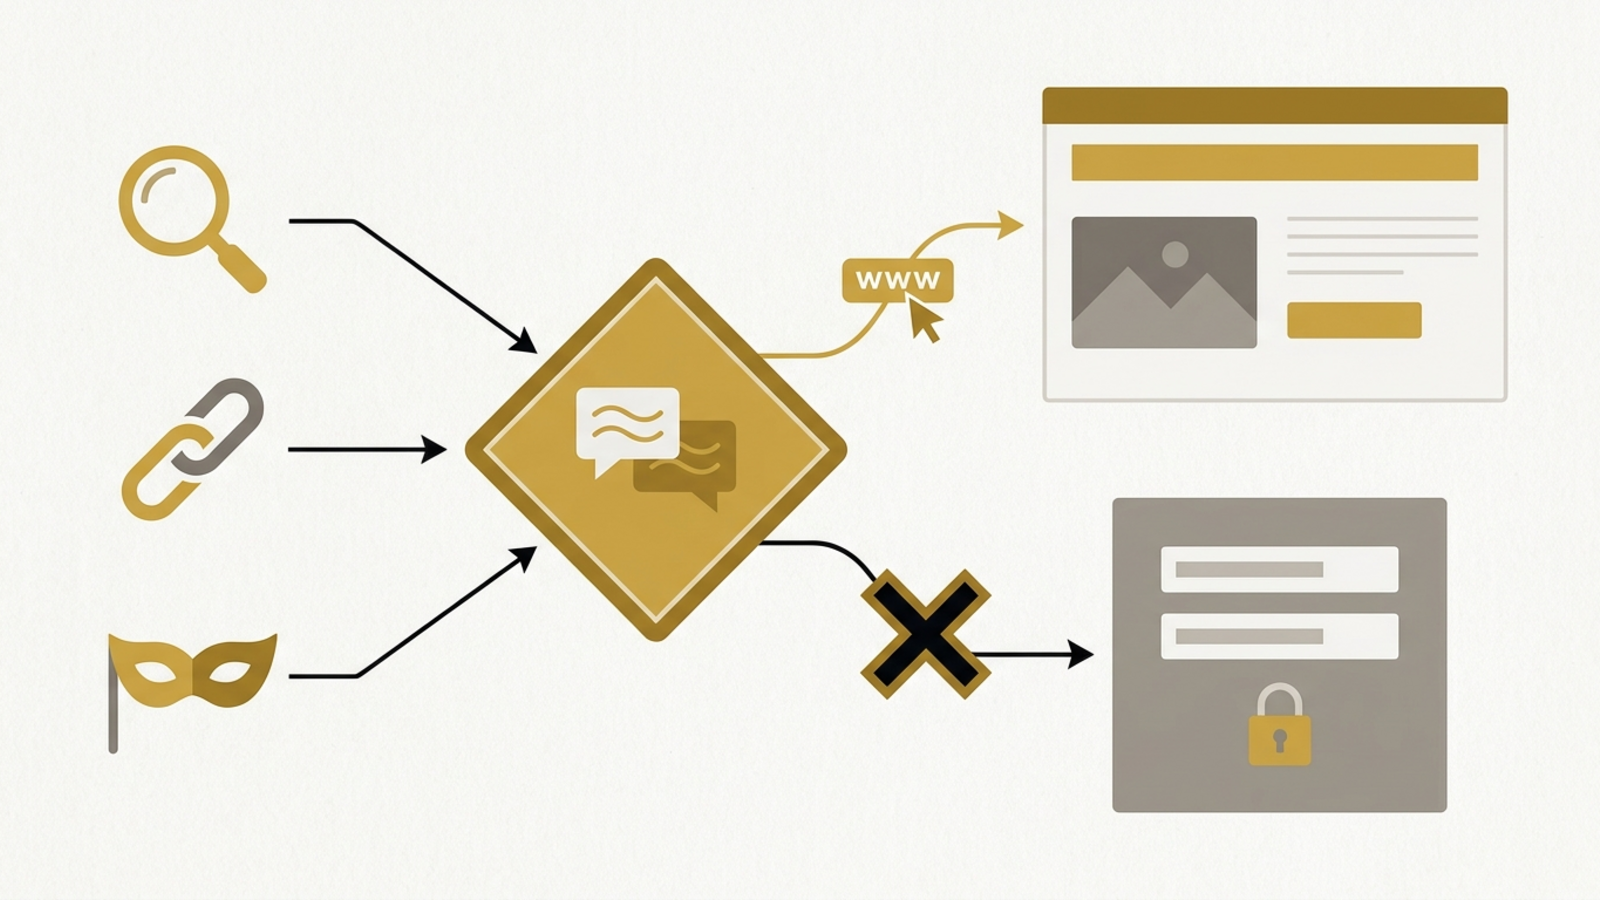
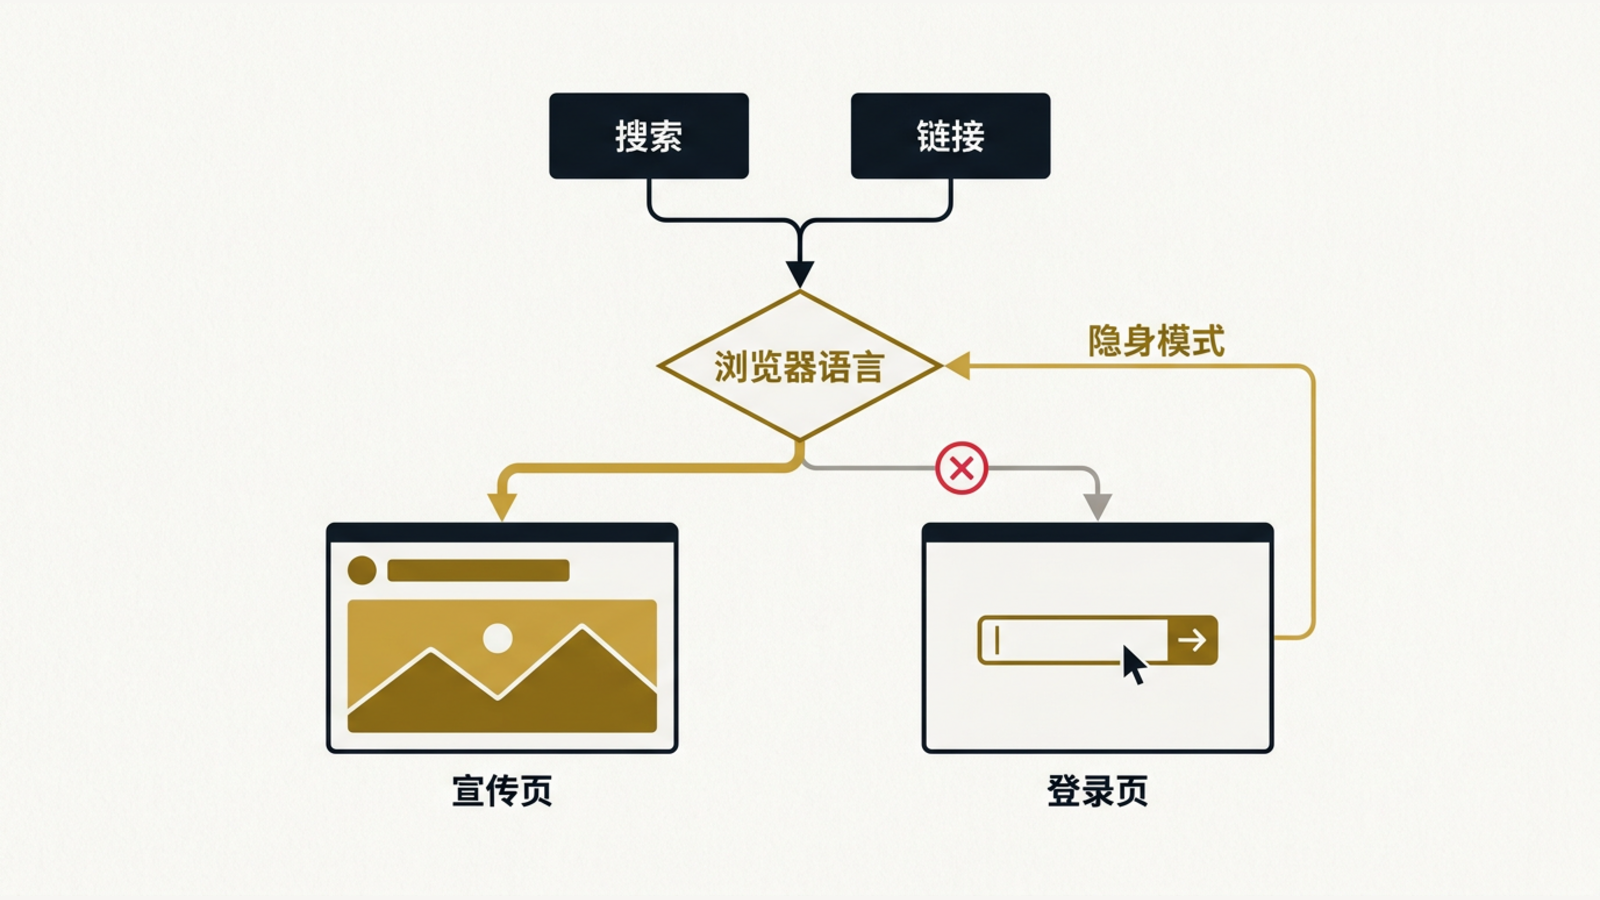
顶导栏加「开发日志」；07-22 配图改为带中文标签
导航：/buildlog 之前只有 sitemap 和 llms.txt 里有，页面没有入口。
现在放在「项目展示」和「关于」之间，桌面与移动菜单共用同一个 navItems。

配图：原来的图纯图形无文字，读者看不出每个方块代表什么。改为封面带标题、
正文插图带元素标签（词取自文章原文），07-22 的三张图重新生成。

diff --git a/components/layout/Navbar.tsx b/components/layout/Navbar.tsx
@@ -34,6 +34,7 @@ export default function Navbar({ locale }: Props) {
     { href: '/daily', label: t('daily') },
     ...(locale === 'zh' ? [{ href: '/investment', label: t('investment') }] : []),
     { href: '/projects', label: t('projects') },
+    { href: '/buildlog', label: t('buildlog') },
     { href: '/about', label: t('about') },
   ]
 
